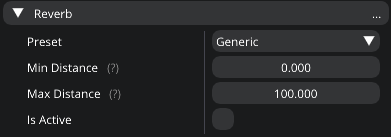
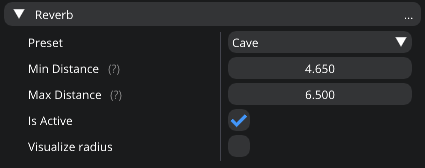
Docs improvements and fixes

diff --git a/docs/source/latest_release.rst b/docs/source/latest_release.rst
@@ -9,7 +9,7 @@ Rendering system was completely rewritten because the old code was a disaster. Y
 
 Now there're no engine limitations on the amount of point & spot lights you can use in a scene. You want hundreds of them? So be it.
 But be aware that there's a limit on how many point & spot lights can cast shadows. The limit is 1024. So, a scene can have 1024 point lights and 1024 spot lights that cast shadows.
-The same limit of 1024 applies to the amount of imported textures and fonts.
+The same limit of 1024 separately applies to the amount of imported textures and fonts.
 
 **Even faster**. Now, rendering runs in its own dedicated `Render thread` which will make things much faster since other engine systems don't need to wait for the rendering to finish.
 
@@ -18,6 +18,16 @@ PBR
 The new version introduces support for `physically based rendering <https://en.wikipedia.org/wiki/Physically_based_rendering>`_ (PBR) which makes renders more photo realistic.
 `Metalness` and `Roughness` textures were added to materials. `Metalness` controls how 'metal-like' surface looks like. By default, it's 0.
 `Roughness` controls how rough surface looks like. `Roughness` of 0 is a mirror reflection and 1 is completely matte. By default, it's 0.5.
+
+.. figure:: rendering/imgs/metalness.png
+    :align: center 
+
+    The sphere on the left has a metalness of 0. The right one - 1. In both cases, the roughness is 0.5
+
+.. figure:: rendering/imgs/roughness.png
+    :align: center 
+
+    The sphere on the left has a roughness of 0. The right one - 1. In both cases, the metalness is 0.
 
 Ambient
 -------
@@ -172,13 +182,13 @@ Using MSDF allows to render text efficiently at almost any size including extrem
 You can use new `Text` and `Text2D` components for text rendering. `Text2D` component is not placed on a scene but rather on a screen which can be used for in-game UI.
 Text2D will try to be at the same position of the screen no matter the resolution. Also, it'll try to occupy the same amount of space.
 
-You can add font files to a project (.ttf & .otf formats) and set it to be used by text components. Text components have following parameters: Line spacing, Kerning, Max Width.
+You can add font files to a project (.ttf & .otf formats) and set it to be used by text components. Text components have the following parameters: Line spacing, Kerning, Max Width.
 
 `Text` component can either cast shadows or not. Also, it has two modes in which it operates: `Lit` or `Unlit` (default).
 In `Unlit` mode, there's only one additional `Color` parameter that you can change.
 In Lit mode, it reacts to lighting and material parameters can be changed to determine how it should be rendered using full PBR pipeline.
 
-`Text2D` component have following extra parameters: `Color`, `Position`, `Scale`, `Rotation`, `Opacity`, `Is Visible`.
+`Text2D` component has the following extra parameters: `Color`, `Position`, `Scale`, `Rotation`, `Opacity`, `Is Visible`.
 `Position` is a normalized device coordinates. It's the position of the top left vertex of the first symbol. (-1; -1) is the top left corner of a screen; (0; 0) is the center; (1; 1) is the bottom right corner.
 
 .. figure:: rendering/imgs/text.png
@@ -201,6 +211,7 @@ It is a spatial anti-aliasing technique that combines information from past fram
 Fog rendering
 -------------
 The engine now supports fog rendering which allows you to give depth to a scene by making further objects blend with the fog color.
+There are three fog equations that you can use: `Linear`, `Exponential`, and `Exponential Squared`.
 
 .. figure:: rendering/imgs/fog_linear.png
     :align: center 
@@ -242,20 +253,21 @@ Other rendering features
 1. **Billboards**. Now there's a new `Billboard` Component that allows you to render a texture that always faces the camera. It doesn't affect lighting and doesn't depend on it.
    The editor uses it for lights to show you where they're. You can press `G` to toggle the visibility of Editor-only billboards. Also, Editor-only billboards are not being rendered during a simulation.
 
-2. **Grid**. Now editor scenes have grid that should help with the development. Each cell is a 1x1 m. You can control its scale in `Renderer Settings` tab. Press `G` to toggle its visibility. Also, it's not rendered during a simulation.
+2. **Grid**. Now editor scenes have grid that should help with the development. Each cell is a 1x1 m. You can control grid's scale in `Renderer Settings` tab. Press `G` to toggle its visibility. Also, it's not rendered during a simulation.
 
 3. **Instanced mesh rendering**. Now the same meshes are rendered much more efficiently.
 
-4. **Lights visualization**. Now point/spot lights have radius parameters that can be used to limit them. You can visualize point/spot lights radiuses by toggling a corresponding flag in their components. As for directional light, you can visualize its direction.
+4. **Lights visualization**. Now point/spot lights have radius parameters that can be used to limit them. You can visualize point/spot lights radii by toggling a corresponding flag in their components. As for directional light, you can visualize its direction.
 
 5. **Line width**. Added `Line Width` as an option. By changing it, you can tweak the width of rendered lines.
 
-6. **Reworked SpriteComponent atlas workflow**. Now it uses material, but additionally there're some parameters that allow you to sample a sprite within an atlas.
+6. **Reworked SpriteComponent atlas workflow**. Now it uses a full material.
 
 7. **Image2D component**. It's the same as `Text2D` but for rendering textures. Note that it's rendered under `Text2D`.
 
 8. **Object picking settings**. Added two settings for object picking: ``Enable/Disable object picking`` and ``Enable/Disable 2D object picking``.
-    You can disable it when it is not needed to improve performance and reduce memory usage. If 2D object picking is disabled, 2D objects will be ignored. This value is ignored, if ``Object Picking`` is disabled.
+   You can disable it when it is not needed to improve performance and reduce memory usage. If 2D object picking is disabled, 2D objects will be ignored. Disabling ``Object Picking`` also disables ``2D Object Picking``.
+   Note that these settings do not affect the editor.
 
 C# Debugging
 ------------
@@ -267,7 +279,7 @@ Step to debug:
 
 2. Run Eagle-Editor.
 
-3. Open up projects solution file that contains scripts.
+3. Open up project's solution file that contains scripts.
 
 4. In Visual Studio, press ``Debug->Attach Mono Debugger``.
 
@@ -298,7 +310,7 @@ C# improvements
 11. Added ``Project`` class. It allows you to get paths to project folders.
 
 12. Added `Setter/Getter` of `BodyType` of ``RigidBodyComponent``. By default, it's static. So, if you want a dynamic object, you must add RigidBodyComponent first,
-    set its body type to dynamic and only after that add any collider component, because the body type is read when a collider component is initialized and cannot be changed later.
+    set its body type to dynamic and only after that add any collider component, because the body type is read when a collider component is initialized and it cannot be changed later.
 
 13. Added events and ``OnEvent()`` function to C# entity. Currently supported events: WindowClose, WindowResize, WindowFocused, KeyPressed, KeyReleased, KeyTyped, MouseButtonPressed, MouseButtonReleased, MouseMoved, MouseScrolled.
 
@@ -326,7 +338,7 @@ C# improvements
 
 25. Renamed ``CreateEntity()`` function to ``SpawnEntity()``.
 
-26. Removed ``TransformComponent``.
+26. Removed ``TransformComponent``. For transformation of entities, use ``Entity`` class functions.
 
 27. Changed C# `Sound` API. `Sound` classes are no longer static.
 
@@ -340,7 +352,7 @@ C# improvements
 
 New debug windows
 -----------------
-Now you can see what your GPU and CPU are doing. New debug windows were added that show you the list of tasks that were just executed and how much it took to execute.
+Now you can see what your GPU and CPU are doing. New debug windows were added that show you the list of tasks that were just executed and how much time it took to execute.
 
 Since the engine uses two threads (main and render), `CPU Timings` tab displays timings per thread. Each of these windows allow you to pause the updates of the timings.
 Also, the editor can show your GPU memory usage and what resources take up the memory.
@@ -399,11 +411,11 @@ Other editor changes
 
 2. Shader now can be reloaded by F5 (they will reload only if changes were detected).
 
-3. Removed instructions from `Help` window. Now it displays a link to repository and the list of used third party libraries.
+3. Removed instructions from `Help` window. Instead, it displays a link to the repository.
 
 4. Performance improvements of `Content Browser` and `Scene Hierarchy`.
 
-5. Improved ``Show in Explorer``. It doesn't cause stalls in the engine anymore.
+5. Improved ``Show in Explorer`` button of `Content Browser`. It doesn't cause a stall of the engine anymore.
 
 6. Added more help messages & improved some sliders.
 
@@ -417,7 +429,7 @@ Other editor changes
 
 11. GPU Buffers visualization only supports: `Albedo`, `Emission`, `SSAO`, `GTAO`, `Motion`. Note that albedo visualization is wrong at the moment because its alpha channel is used for storing ``roughness`` of materials.
 
-12. Now opening another scene is safer in case you wanted to save the current scene. It won't open a new scene if saving has failed.
+12. Now opening another scene is safer in case you wanted to save the current scene. Also it won't open a new scene if saving has failed.
 
 13. Now there's a pop-up when you want to open a blank scene.
 
@@ -433,7 +445,7 @@ Other changes
 
 4. Added ``.tga`` to supported textures.
 
-5. Made ``MeshColliderComponent`` to match ``StaticMeshComponent`` on initialization.
+5. Now ``MeshColliderComponent`` matches ``StaticMeshComponent`` on initialization.
 
 6. Removed ``Open Scene`` button.
 
@@ -469,7 +481,7 @@ Other changes
 
 22. Increased `MaxSubsteps` of `Physics System` from `8` to `16`. It means that if a frame takes too much time, the physics system might be updated up to `16` times to catch up.
 
-23. Added support for two-sided mesh colliders. It only affects non-convex mesh colliders. Non-convex meshes are one-sided meaning collision won't be registered from the back side. For example, that might be a problem for windows.
+23. Added support for two-sided mesh colliders. It only affects non-convex mesh colliders. By default, non-convex meshes are one-sided meaning collision won't be registered from the back side. For example, that might be a problem for windows.
 
 24. Updated some 3rd party libraries.
 
@@ -501,7 +513,7 @@ Fixes
 
 9. Removed unnecessary reloading of C# assembly.
 
-10. Fixed C# ``GetCollisionMesh()`` & ``SetCollisionMesh()`` functions using ``StaticMeshComponent`` instead of ``MeshColliderComponent``.
+10. Fixed C# ``GetCollisionMesh()`` & ``SetCollisionMesh()`` functions. They were using ``StaticMeshComponent`` instead of ``MeshColliderComponent``.
 
 11. Fixed C# ``SetDynamicFriction()`` changing `static friction` instead.
 
@@ -565,9 +577,9 @@ Fixes
 
 41. Fixed a crash when setting an empty string to C#.
 
-42. Fixed not passing constant timestep to `OnPhysicsUpdate`.
+42. Fixed not passing constant timestep to ``OnPhysicsUpdate()``.
 
-43. Fixed not calling `OnPhysicsUpdate` 120 times per second.
+43. Fixed not calling ``OnPhysicsUpdate()`` 120 times per second.
 
 44. Fixed a crash if a browsing folder was deleted.
 

diff --git a/docs/source/thirdparty_libs.rst b/docs/source/thirdparty_libs.rst
@@ -18,3 +18,4 @@ Below is the list of libraries that are used for the development of `Eagle Engin
 14. `Thread pool <https://github.com/bshoshany/thread-pool>`_
 15. `Vulkan memory allocator <https://github.com/GPUOpen-LibrariesAndSDKs/VulkanMemoryAllocator>`_
 16. `yaml-cpp <https://github.com/jbeder/yaml-cpp>`_
+17. `CSharpDebuggingTool <https://github.com/StudioCherno/HazelToolsVS>`_

diff --git a/docs/source/index.rst b/docs/source/index.rst
@@ -13,7 +13,9 @@ Check out the :doc:`getstarted` guide for further information.
    This project is under active development.
 
 .. figure:: rendering/imgs/volumetric_light_2.png
-    :align: center 
+    :align: center
+
+|
 
 Get involved
 ------------

diff --git a/docs/source/components.rst b/docs/source/components.rst
@@ -258,6 +258,8 @@ Reverb Component has the following parameters:
 
 4. `Is Active`.
 
+5. `Visualize Radius`.
+
 .. figure:: imgs/components/reverb.png
    :align: center 
 
